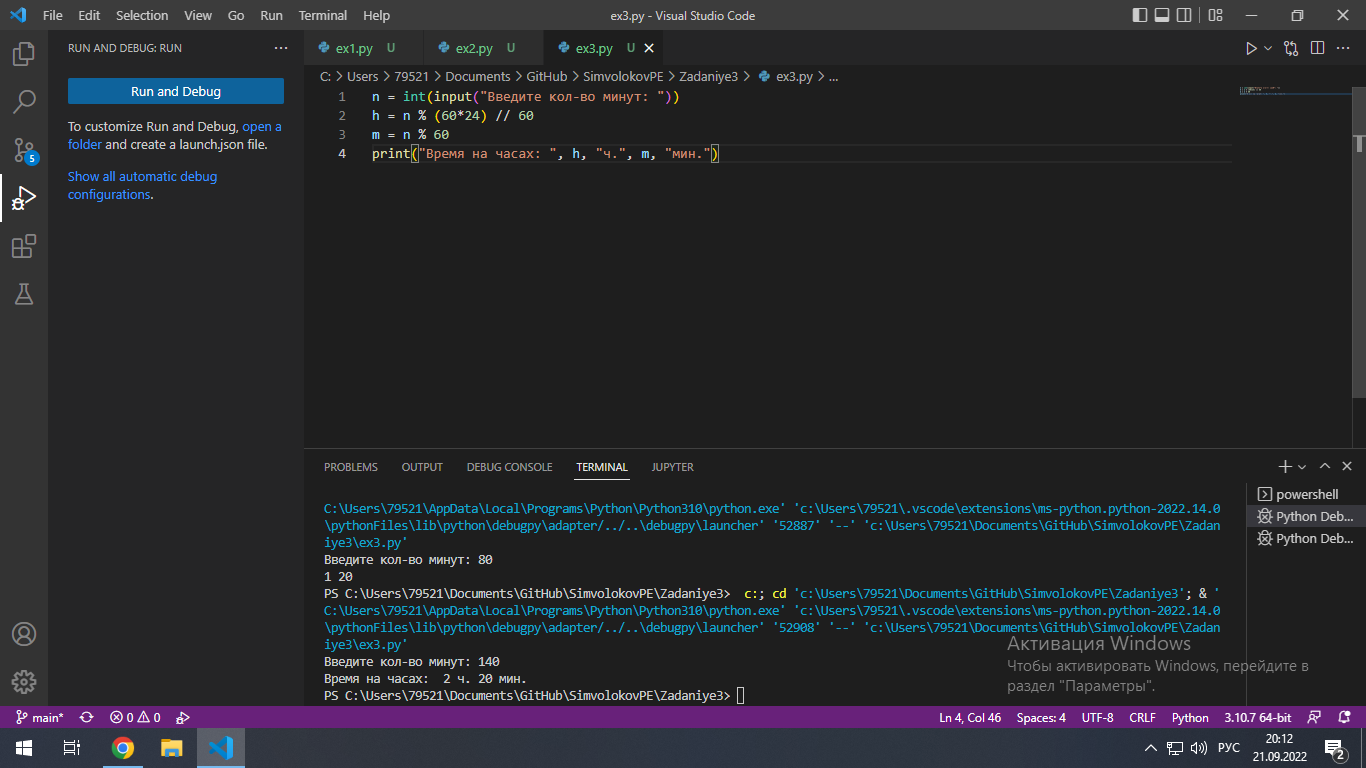
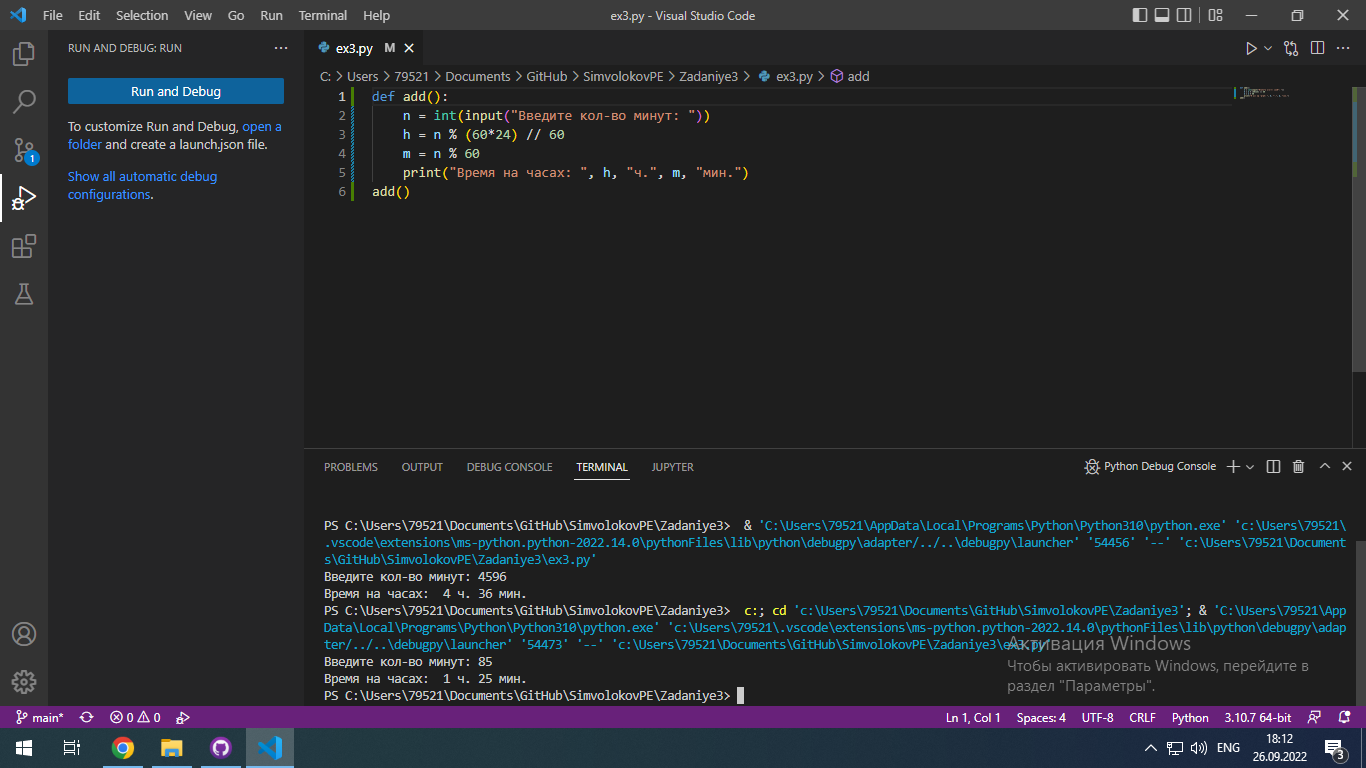
Задание 3

diff --git a/Zadaniye3/ex3.py b/Zadaniye3/ex3.py
@@ -1,4 +1,6 @@
-n = int(input("Введите кол-во минут: "))
-h = n % (60*24) // 60
-m = n % 60
-print("Время на часах: ", h, "ч.", m, "мин.")
+def add():
+    n = int(input("Введите кол-во минут: "))
+    h = n % (60*24) // 60
+    m = n % 60
+    print("Время на часах: ", h, "ч.", m, "мин.")
+add()
